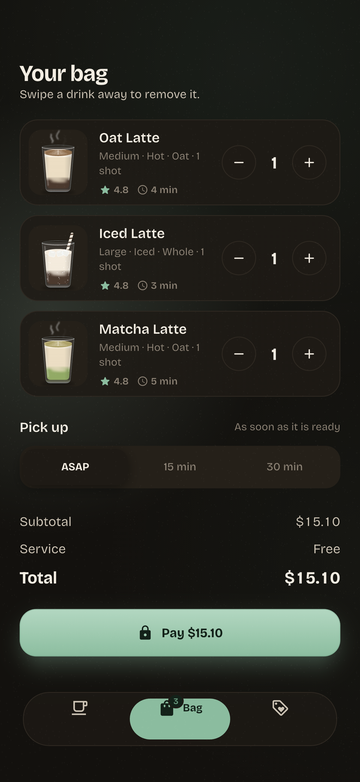
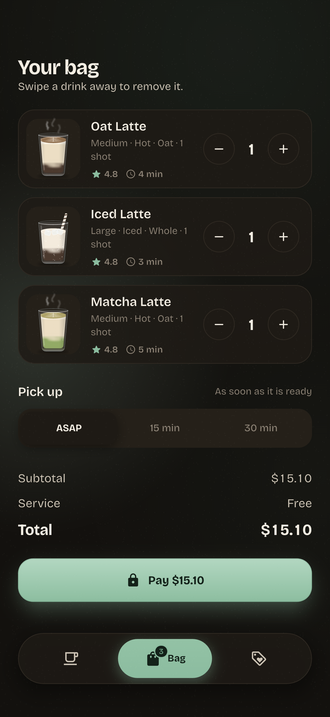
Tab bar: centred content, pill sized to its label, fade behind
The icon and label now sit in the middle of the pill, the pill is as
wide as its label needs, the picked icon springs, the bar is more solid
glass with a shadow, and lists fade out before they reach it.

diff --git a/lib/widgets/tab_bar.dart b/lib/widgets/tab_bar.dart
@@ -1,3 +1,4 @@
+import 'dart:math' as math;
 import 'dart:ui' as ui;
 
 import 'package:flutter/material.dart';
@@ -8,13 +9,7 @@ import '../config/palette.dart';
 import 'fly_to_bag.dart';
 
 class TabItem {
-  const TabItem(
-    this.label,
-    this.icon,
-    this.activeIcon, {
-    this.badge = 0,
-    this.isBag = false,
-  });
+  const TabItem(this.label, this.icon, this.activeIcon, {this.badge = 0, this.isBag = false});
 
   final String label;
   final IconData icon, activeIcon;
@@ -25,7 +20,9 @@ class TabItem {
 }
 
 /// A floating frosted bar. A pill of accent slides under the current tab,
-/// stretching as it travels.
+/// sized to fit its icon and label and stretching as it travels; the other
+/// tabs share what is left. Content scrolling underneath fades out before
+/// it reaches the bar.
 class GlassTabBar extends StatelessWidget {
   const GlassTabBar({
     super.key,
@@ -38,70 +35,105 @@ class GlassTabBar extends StatelessWidget {
   final int index;
   final ValueChanged<int> onTap;
 
+  static const _height = 68.0, _inset = 7.0, _icon = 23.0, _gap = 8.0, _pad = 18.0;
+
   @override
   Widget build(BuildContext context) {
     final p = context.palette;
-    return Padding(
-      padding: EdgeInsets.fromLTRB(
-        28,
-        0,
-        28,
-        MediaQuery.paddingOf(context).bottom + 10,
+    final label = Theme.of(context).textTheme.labelMedium!.copyWith(fontWeight: FontWeight.w700);
+    final scaler = MediaQuery.textScalerOf(context);
+    final bottom = MediaQuery.paddingOf(context).bottom;
+    // How wide each tab's pill needs to be to show its icon and label.
+    final needs = [
+      for (final item in items)
+        _icon + _gap + _pad * 2 + (TextPainter(text: TextSpan(text: item.label, style: label), textDirection: TextDirection.ltr, textScaler: scaler, maxLines: 1)..layout()).width,
+    ];
+
+    return DecoratedBox(
+      // Lists fade into the paper before they reach the bar.
+      decoration: BoxDecoration(
+        gradient: LinearGradient(
+          begin: Alignment.topCenter,
+          end: Alignment.bottomCenter,
+          colors: [p.paper.withValues(alpha: 0), p.paper.withValues(alpha: 0.85), p.paper],
+          stops: const [0, 0.45, 1],
+        ),
       ),
-      child: ClipRRect(
-        borderRadius: BorderRadius.circular(32),
-        child: BackdropFilter(
-          filter: ui.ImageFilter.blur(sigmaX: 22, sigmaY: 22),
-          child: Container(
-            height: 66,
-            decoration: BoxDecoration(
-              color: p.card.withValues(alpha: 0.72),
-              borderRadius: BorderRadius.circular(32),
-              border: Border.all(color: p.line),
-            ),
-            padding: const EdgeInsets.all(7),
-            child: LayoutBuilder(
-              builder: (context, box) {
-                final w = box.maxWidth / items.length;
-                return Stack(
-                  children: [
-                    TweenAnimationBuilder<double>(
-                      tween: Tween(end: index.toDouble()),
-                      duration: Motion.medium,
-                      curve: Motion.spring,
-                      builder: (_, v, _) {
-                        // Stretch while moving, by how far from a whole tab it is.
-                        final stretch =
-                            1 - ((v - v.round()).abs() * 2 - 1).abs();
-                        return Positioned(
-                          left: v * w - stretch * 8,
-                          width: w + stretch * 16,
-                          top: 0,
-                          bottom: 0,
-                          child: Container(
-                            decoration: BoxDecoration(
-                              color: p.accent,
-                              borderRadius: BorderRadius.circular(26),
+      child: Padding(
+        padding: EdgeInsets.fromLTRB(24, 22, 24, bottom + 10),
+        child: DecoratedBox(
+          decoration: BoxDecoration(
+            borderRadius: BorderRadius.circular(_height / 2),
+            boxShadow: [BoxShadow(color: p.shadow, blurRadius: 24, offset: const Offset(0, 10))],
+          ),
+          child: ClipRRect(
+            borderRadius: BorderRadius.circular(_height / 2),
+            child: BackdropFilter(
+              filter: ui.ImageFilter.blur(sigmaX: 24, sigmaY: 24),
+              child: Container(
+                height: _height,
+                padding: const EdgeInsets.all(_inset),
+                decoration: BoxDecoration(
+                  color: p.card.withValues(alpha: 0.88),
+                  borderRadius: BorderRadius.circular(_height / 2),
+                  border: Border.all(color: p.line),
+                ),
+                child: LayoutBuilder(
+                  builder: (context, box) => TweenAnimationBuilder<double>(
+                    tween: Tween(end: index.toDouble()),
+                    duration: Motion.medium,
+                    curve: Motion.spring,
+                    builder: (_, v, _) {
+                      final n = items.length;
+                      final w = box.maxWidth;
+                      // How close each tab is to being the current one (they
+                      // sum to one while the pill slides between two).
+                      final near = [for (var i = 0; i < n; i++) (1 - (v - i).abs()).clamp(0.0, 1.0)];
+                      final extra = [for (var i = 0; i < n; i++) math.max(0.0, (math.min(needs[i], w * 0.6) - w / n) * n / (n - 1))];
+                      final grow = [for (var i = 0; i < n; i++) extra[i] * near[i]];
+                      final base = (w - grow.fold(0.0, (a, b) => a + b)) / n;
+                      final widths = [for (var i = 0; i < n; i++) base + grow[i]];
+                      final k = v.floor().clamp(0, n - 1);
+                      final f = (v - k).clamp(0.0, 1.0);
+                      var left = 0.0;
+                      for (var i = 0; i < k; i++) {
+                        left += widths[i];
+                      }
+                      left += f * widths[k];
+                      final width = k + 1 < n ? widths[k] + (widths[k + 1] - widths[k]) * f : widths[k];
+                      // Stretch while moving, by how far from a whole tab it is.
+                      final stretch = 1 - ((v - v.round()).abs() * 2 - 1).abs();
+                      return Stack(
+                        fit: StackFit.expand,
+                        children: [
+                          Positioned(
+                            left: left - stretch * 6,
+                            width: width + stretch * 12,
+                            top: 0,
+                            bottom: 0,
+                            child: DecoratedBox(
+                              decoration: BoxDecoration(
+                                borderRadius: BorderRadius.circular(_height / 2),
+                                gradient: LinearGradient(begin: Alignment.topCenter, end: Alignment.bottomCenter, colors: [Color.lerp(p.accent, p.accentGlow, 0.18)!, p.accent]),
+                                boxShadow: [BoxShadow(color: p.accent.withValues(alpha: 0.35), blurRadius: 14, offset: const Offset(0, 5))],
+                              ),
                             ),
                           ),
-                        );
-                      },
-                    ),
-                    Row(
-                      children: [
-                        for (var i = 0; i < items.length; i++)
-                          Expanded(
-                            child: _Tab(
-                              item: items[i],
-                              active: i == index,
-                              onTap: () => onTap(i),
-                            ),
+                          Row(
+                            children: [
+                              for (var i = 0; i < n; i++)
+                                SizedBox(
+                                  width: widths[i],
+                                  child: _Tab(item: items[i], active: i == index, label: label, onTap: () => onTap(i)),
+                                ),
+                            ],
                           ),
-                      ],
-                    ),
-                  ],
-                );
-              },
+                        ],
+                      );
+                    },
+                  ),
+                ),
+              ),
             ),
           ),
         ),
@@ -111,24 +143,17 @@ class GlassTabBar extends StatelessWidget {
 }
 
 class _Tab extends StatelessWidget {
-  const _Tab({required this.item, required this.active, required this.onTap});
+  const _Tab({required this.item, required this.active, required this.label, required this.onTap});
 
   final TabItem item;
   final bool active;
+  final TextStyle label;
   final VoidCallback onTap;
 
   @override
   Widget build(BuildContext context) {
     final p = context.palette;
     final color = active ? p.onAccent : p.inkSoft;
-    Widget icon = Icon(
-      active ? item.activeIcon : item.icon,
-      color: color,
-      size: 23,
-    );
-    if (item.isBag) {
-      icon = BagBump(child: KeyedSubtree(key: bagTarget, child: icon));
-    }
     return Semantics(
       button: true,
       selected: active,
@@ -140,70 +165,68 @@ class _Tab extends StatelessWidget {
           HapticFeedback.selectionClick();
           onTap();
         },
-        child: Row(
-          mainAxisAlignment: MainAxisAlignment.center,
-          children: [
-            Stack(
-              clipBehavior: Clip.none,
-              children: [
-                icon,
-                if (item.badge > 0)
-                  Positioned(
-                    right: -9,
-                    top: -6,
-                    child: TweenAnimationBuilder<double>(
-                      key: ValueKey(item.badge),
-                      tween: Tween(begin: 0.4, end: 1),
-                      duration: Motion.medium,
-                      curve: Motion.spring,
-                      builder: (_, s, child) =>
-                          Transform.scale(scale: s, child: child),
-                      child: Container(
-                        constraints: const BoxConstraints(minWidth: 18),
-                        height: 18,
-                        padding: const EdgeInsets.symmetric(horizontal: 5),
-                        decoration: BoxDecoration(
-                          color: active ? p.onAccent : p.accent,
-                          borderRadius: BorderRadius.circular(9),
-                          border: Border.all(color: p.card, width: 1.5),
-                        ),
-                        alignment: Alignment.center,
-                        child: Text(
-                          '${item.badge}',
-                          style: TextStyle(
-                            fontFamily: 'Bricolage',
-                            fontSize: 10.5,
-                            fontWeight: FontWeight.w800,
-                            color: active ? p.accentDeep : p.onAccent,
+        child: Center(
+          child: Row(
+            mainAxisSize: MainAxisSize.min,
+            children: [
+              // The icon gives a small spring when its tab is picked.
+              TweenAnimationBuilder<double>(
+                key: ValueKey(active),
+                tween: Tween(begin: active ? 0.7 : 1, end: 1),
+                duration: Motion.long,
+                curve: Curves.elasticOut,
+                builder: (_, s, child) => Transform.scale(scale: s, child: child),
+                child: Stack(
+                  clipBehavior: Clip.none,
+                  children: [
+                    if (item.isBag)
+                      BagBump(child: KeyedSubtree(key: bagTarget, child: Icon(active ? item.activeIcon : item.icon, color: color, size: GlassTabBar._icon)))
+                    else
+                      Icon(active ? item.activeIcon : item.icon, color: color, size: GlassTabBar._icon),
+                    if (item.badge > 0)
+                      Positioned(
+                        right: -9,
+                        top: -7,
+                        child: TweenAnimationBuilder<double>(
+                          key: ValueKey(item.badge),
+                          tween: Tween(begin: 0.4, end: 1),
+                          duration: Motion.medium,
+                          curve: Motion.spring,
+                          builder: (_, s, child) => Transform.scale(scale: s, child: child),
+                          child: Container(
+                            constraints: const BoxConstraints(minWidth: 18),
+                            height: 18,
+                            padding: const EdgeInsets.symmetric(horizontal: 5),
+                            decoration: BoxDecoration(
+                              color: active ? p.onAccent : p.accent,
+                              borderRadius: BorderRadius.circular(9),
+                              border: Border.all(color: active ? p.accent : p.card, width: 1.5),
+                            ),
+                            alignment: Alignment.center,
+                            child: Text(
+                              '${item.badge}',
+                              style: TextStyle(fontFamily: 'Bricolage', fontSize: 10.5, fontWeight: FontWeight.w800, color: active ? p.accentDeep : p.onAccent),
+                            ),
                           ),
                         ),
                       ),
-                    ),
-                  ),
-              ],
-            ),
-            Flexible(
-              child: AnimatedSize(
-                duration: Motion.medium,
-                curve: Motion.settle,
-                child: active
-                    ? Padding(
-                        padding: const EdgeInsets.only(left: 8),
-                        child: Text(
-                          item.label,
-                          maxLines: 1,
-                          overflow: TextOverflow.ellipsis,
-                          style: Theme.of(context).textTheme.labelMedium!
-                              .copyWith(
-                                color: color,
-                                fontWeight: FontWeight.w700,
-                              ),
-                        ),
-                      )
-                    : const SizedBox.shrink(),
+                  ],
+                ),
               ),
-            ),
-          ],
+              Flexible(
+                child: AnimatedSize(
+                  duration: Motion.medium,
+                  curve: Motion.settle,
+                  child: active
+                      ? Padding(
+                          padding: const EdgeInsets.only(left: GlassTabBar._gap),
+                          child: Text(item.label, maxLines: 1, overflow: TextOverflow.clip, softWrap: false, style: label.copyWith(color: color)),
+                        )
+                      : const SizedBox.shrink(),
+                ),
+              ),
+            ],
+          ),
         ),
       ),
     );
